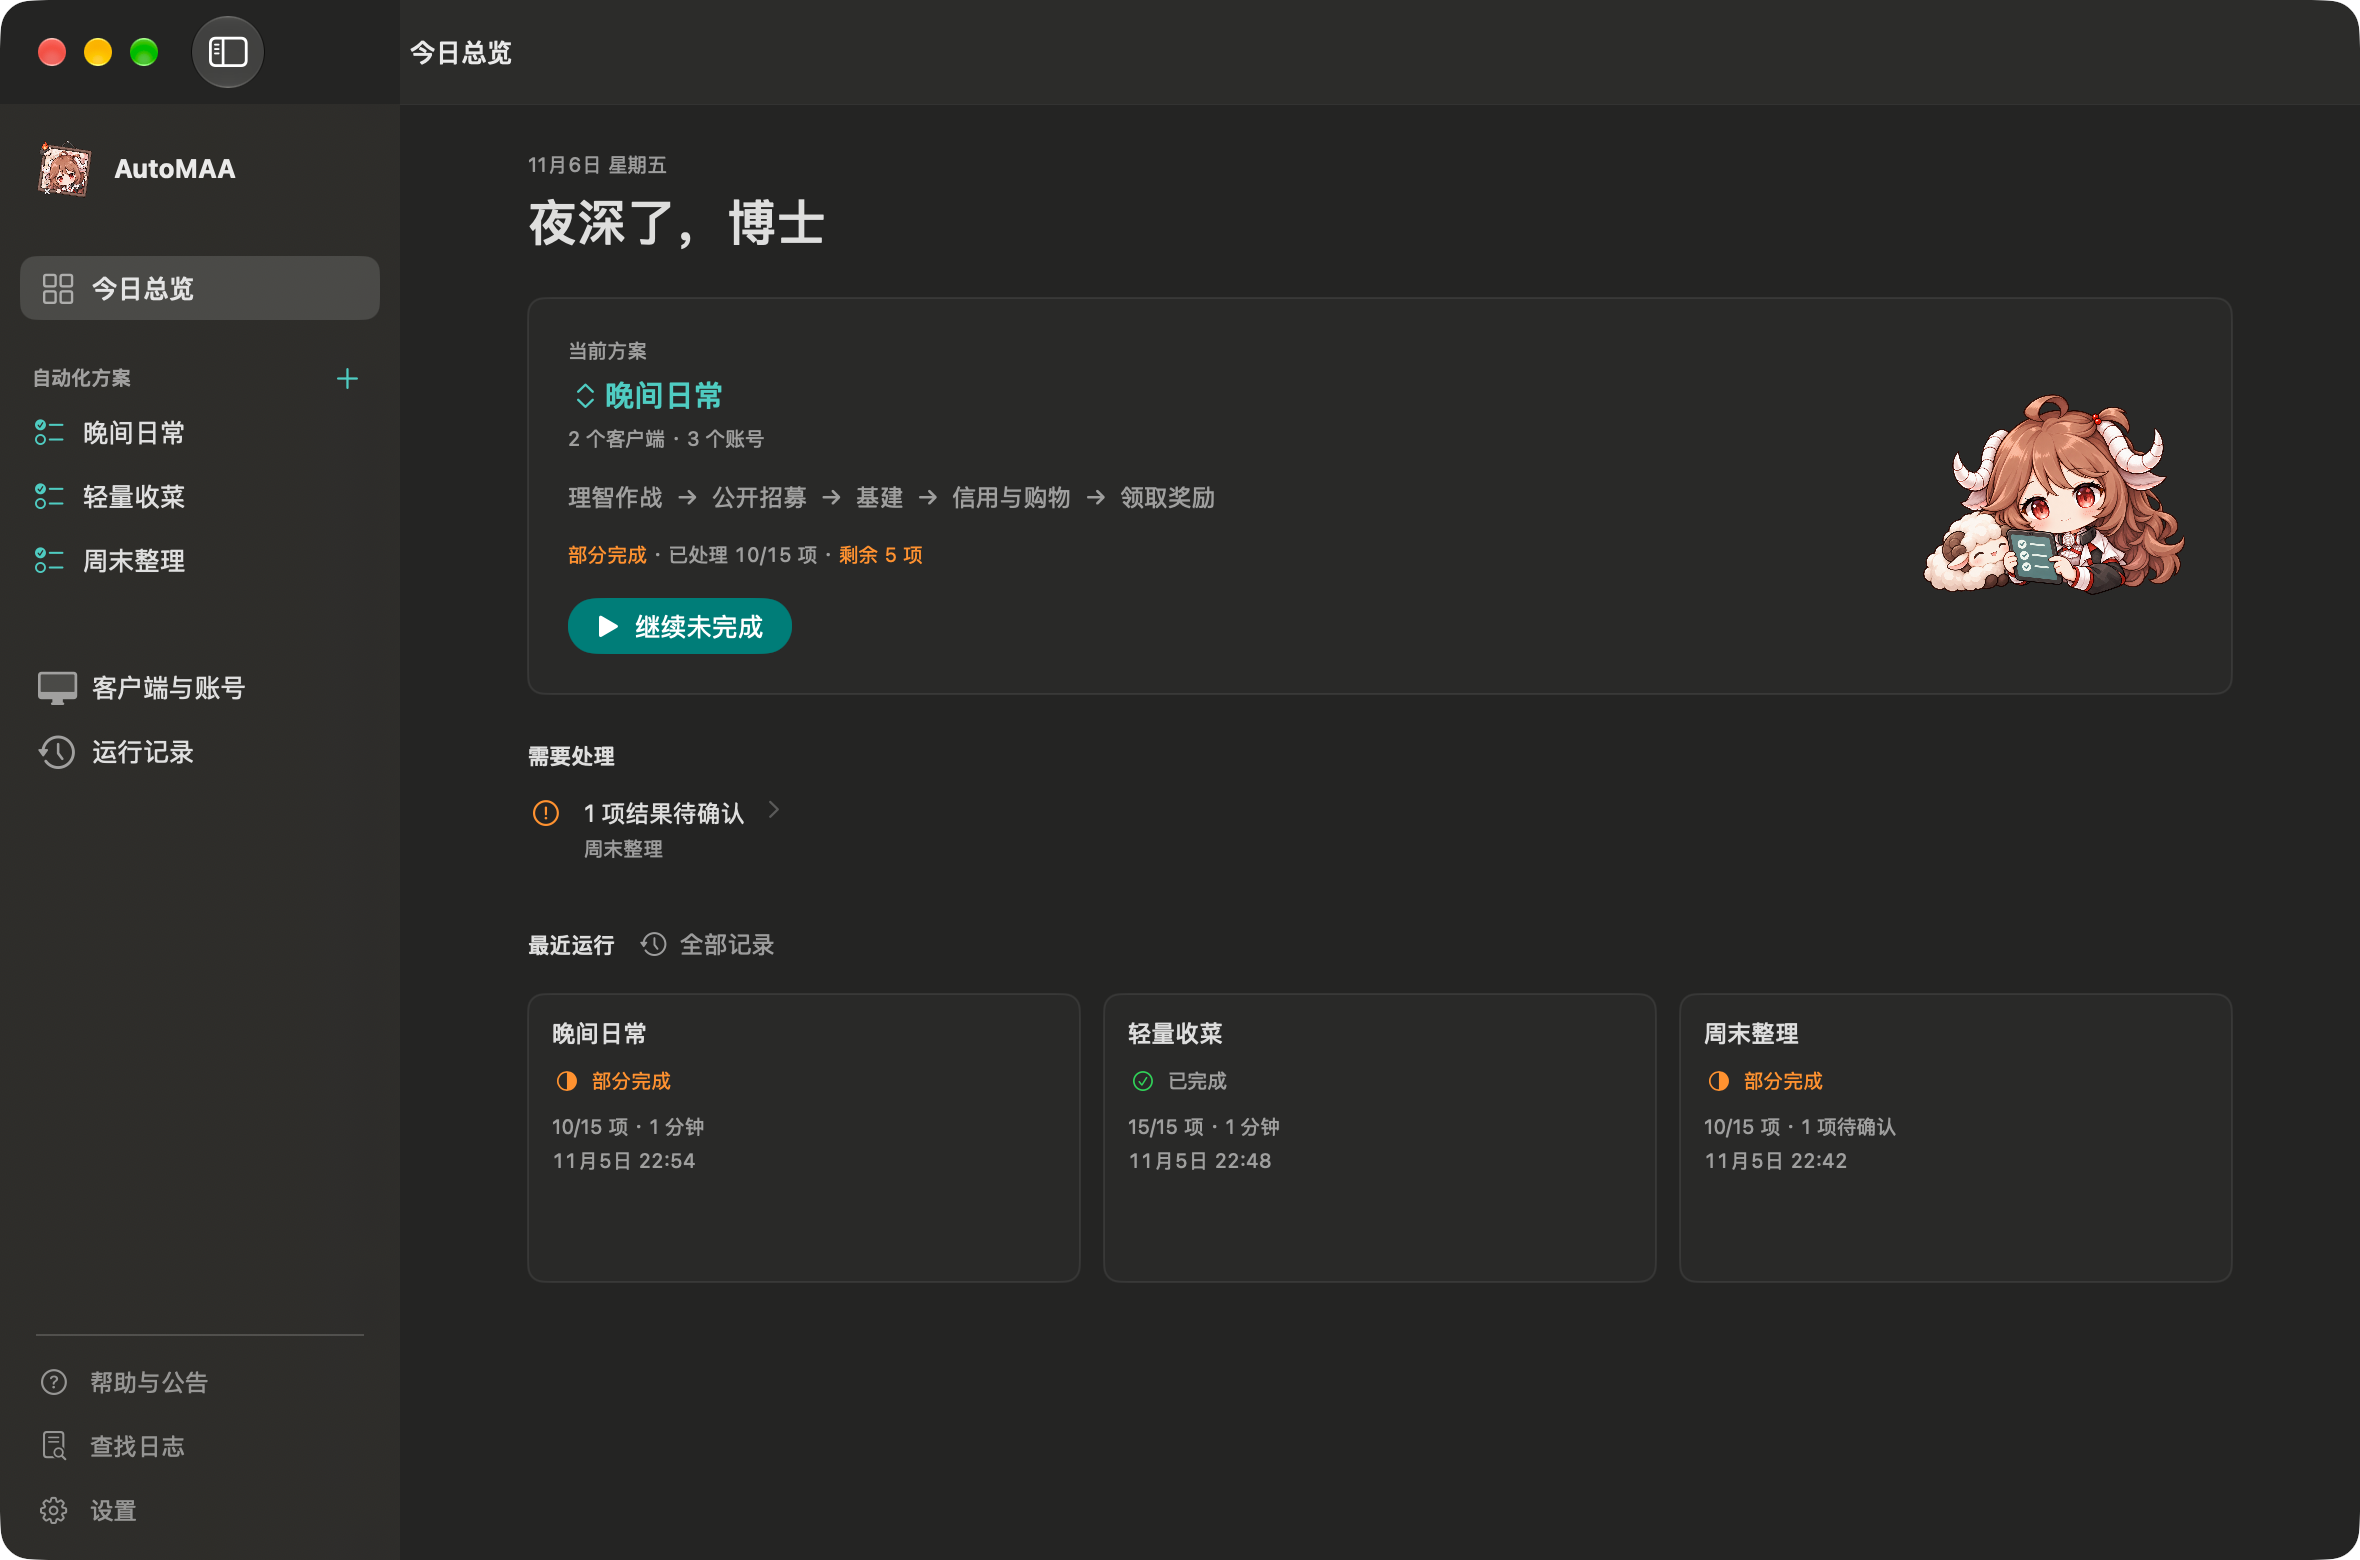
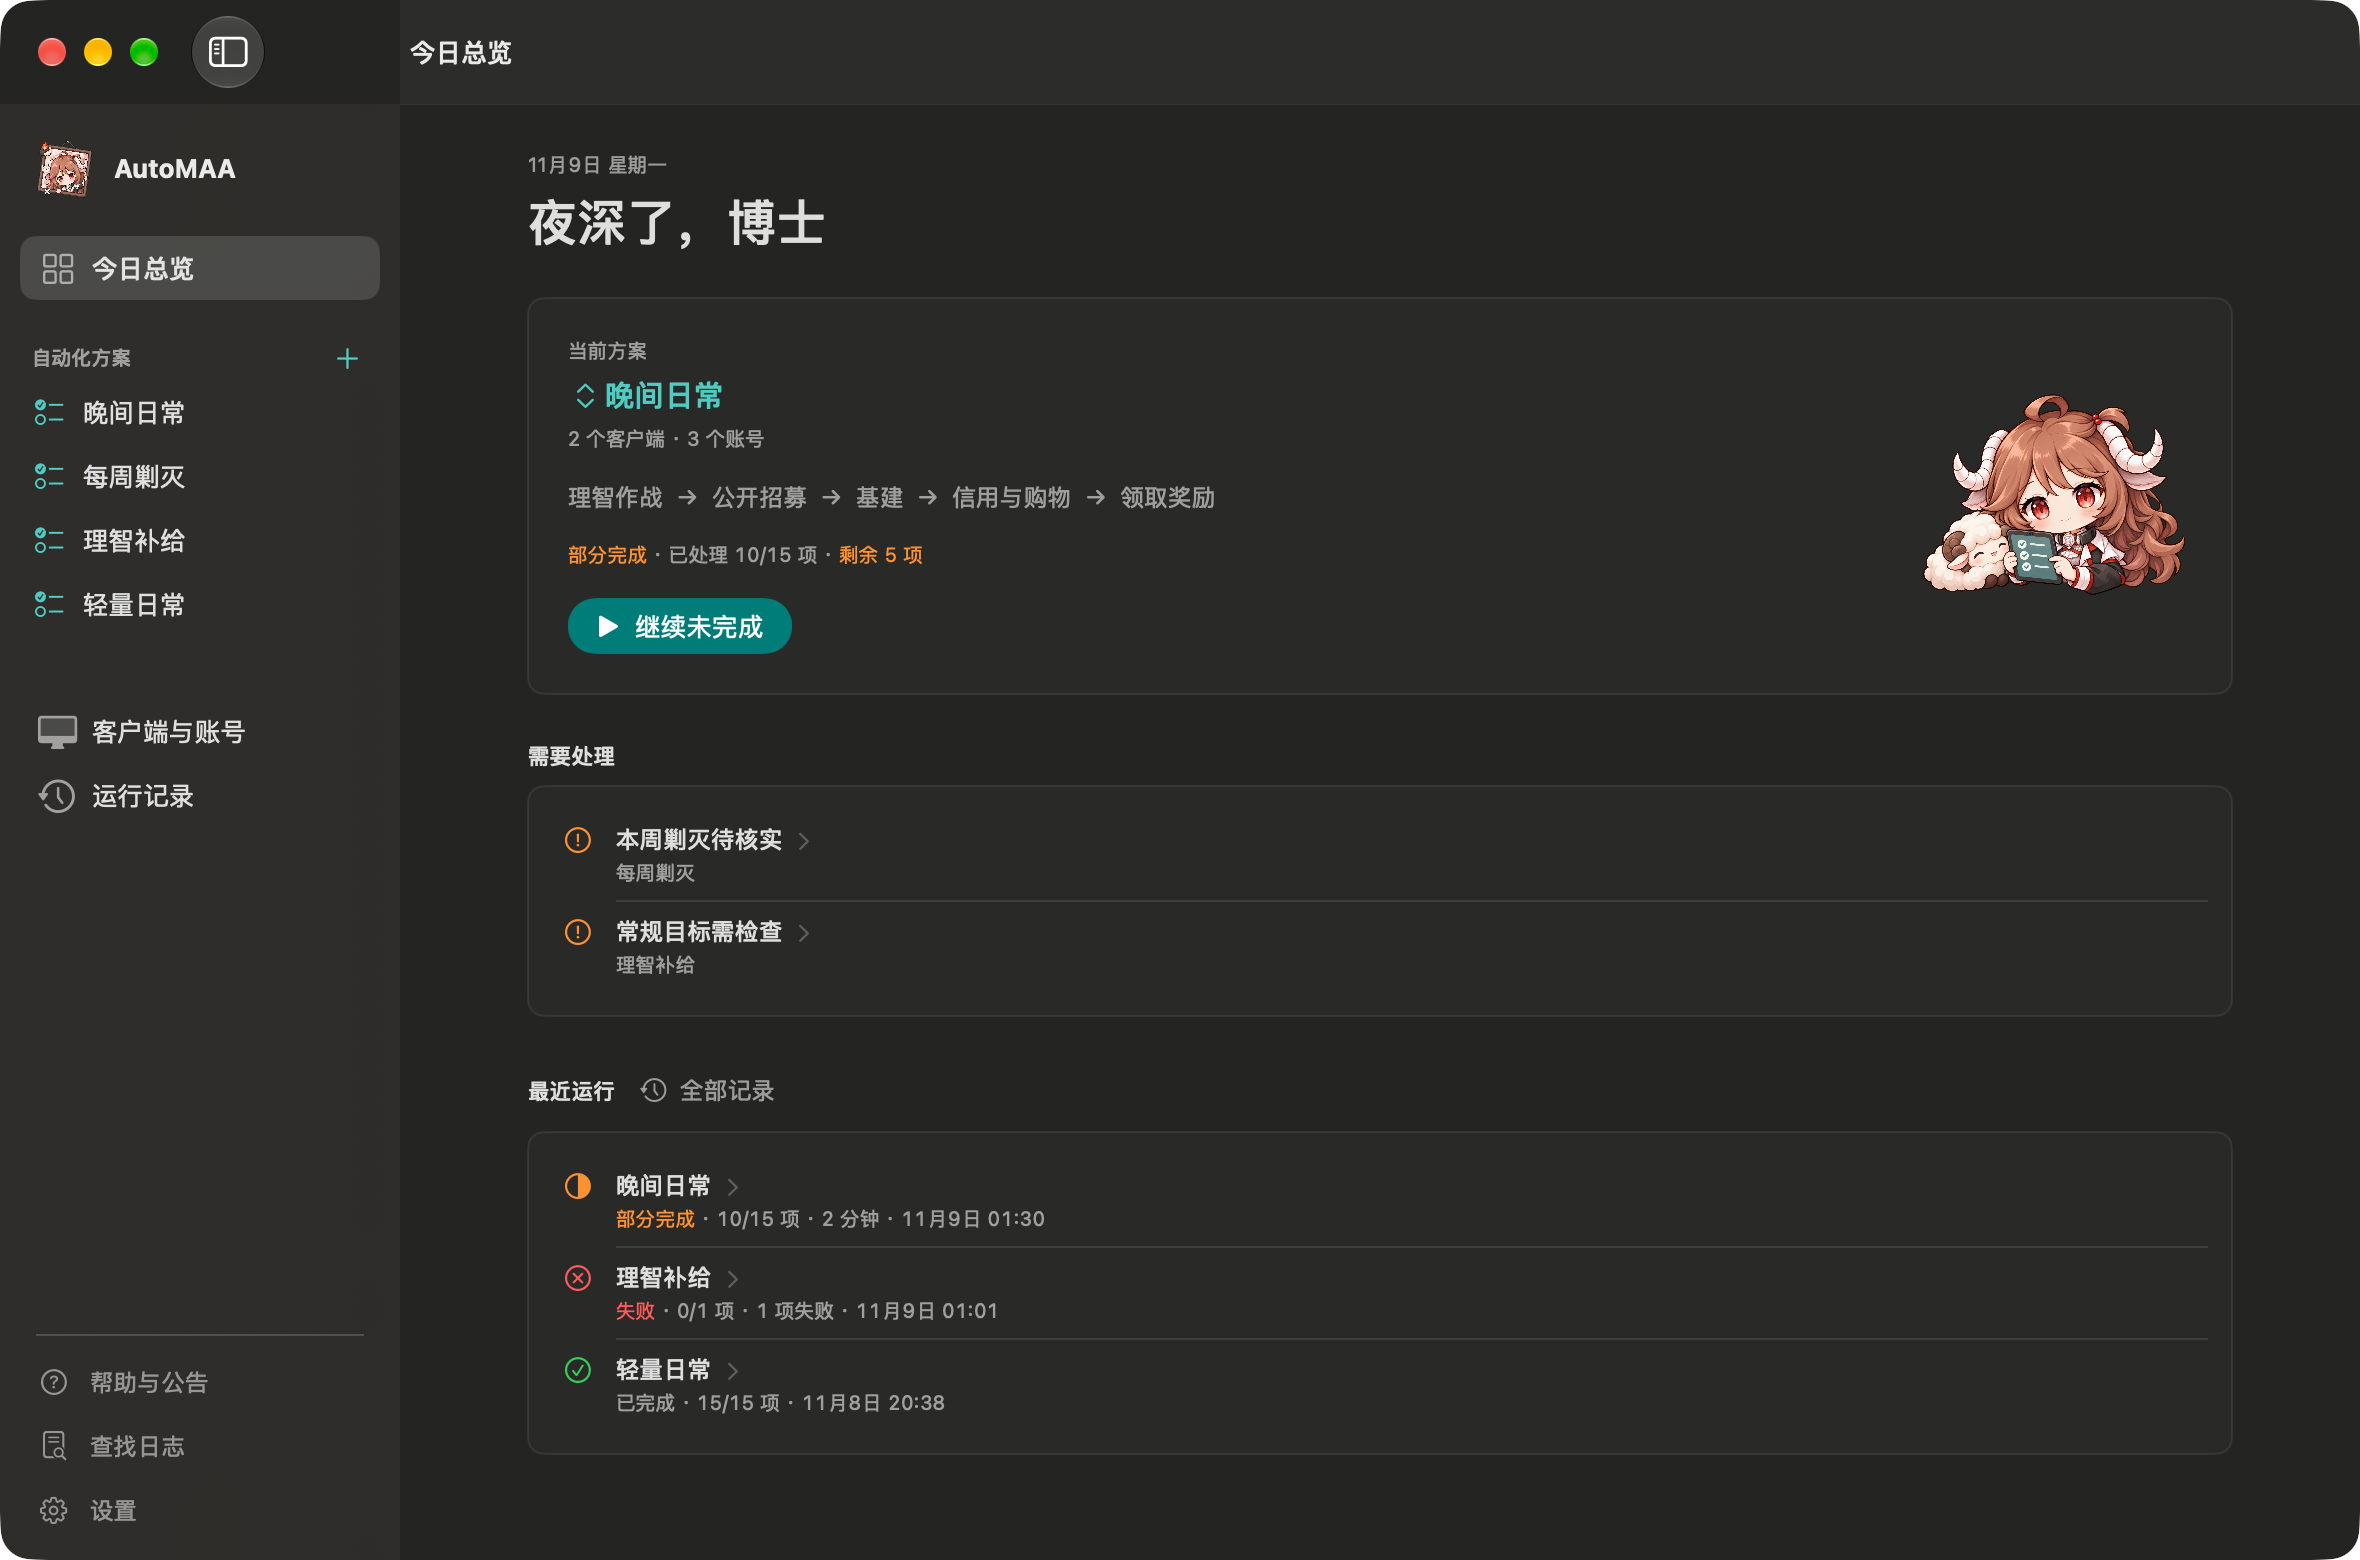
release: v0.16.2

diff --git a/docs/guide/getting-started.md b/docs/guide/getting-started.md
@@ -2,23 +2,22 @@
 
 先配置一个客户端、一个账号和一个方案，跑通后再扩展账号与定时。可以在尚未安装 MAA 时填写配置；运行前完成[MAA 运行环境安装](./installation)、游戏登录和数据下载。
 
-::: info 文档版本
-:::
-
 ## 认识主窗口
 
 左侧切换今日总览、自动化方案、客户端与账号、运行记录。选择方案后，中间调整任务顺序，右侧编辑所选任务；右侧顶栏切换“任务设置”与“运行概况”，中列日历图标打开执行安排，详情列左侧播放按钮运行方案。图标悬停时显示操作名称。
 
 任务列表顶部的“执行 N 个账号”表示方案范围，“未设定时”表示尚未开启定时。当前运行状态集中显示在侧栏底部、帮助与公告上方；方案页的停止和播放在顶栏固定成组显示，只改变可用性，不替换图标或文字；客户端与历史记录空闲时不显示运行按钮，后台操作期间提供独立停止入口。工具栏的侧栏按钮或 `Control-Command-S` 可收起、展开导航；方案增多时列表和总览可滚动。
 
-任务行右侧显示本任务反馈：转圈表示正在执行，绿勾表示全部目标账号均已成功，红叉表示失败，灰色斜线表示取消，橙色提醒表示有结果待处理。名称和参数摘要保持不变，具体原因可在运行概况中查看。
+任务行右侧会在运行过程中更新。转圈表示正在执行，绿勾表示全部目标账号均已完成该项，红叉表示失败，灰色斜线表示取消，橙色提醒表示有结果待处理。具体原因可在运行概况中查看。
 
-今日总览以当前方案为主，点击方案名切换当前方案；参数与执行安排从左侧对应方案进入。主区显示账号范围、任务顺序和唯一运行入口，今日摘要说明已处理、剩余与待核实数量。运行期间显示实际操作名称和最新消息，总体阶段与进度集中在侧栏底部。“需要处理”集中展示待确认结果、作战恢复、配置错误和定时异常，点击进入对应处理页面；“接下来的定时”只展示已同步生效的安排；没有待处理事项或已生效定时时，相应分区会收起。“最近运行”以卡片保留最近三次方案结果，状态、摘要与时间集中在卡片内，点击可查看详情；未记录结束的运行会显示状态未确认。
+今日总览以当前方案为主。点击方案名可切换方案，参数与执行安排从左侧对应方案进入。主区显示账号范围、任务顺序、运行入口和进度摘要。运行期间显示实际操作名称和最新消息，总体阶段与进度集中在侧栏底部。
+
+“需要处理”和“最近运行”采用同样的分组布局。前者列出待确认结果、作战恢复、配置错误和定时异常，后者保留最近三次方案结果。点击整行即可查看对应详情。“接下来的定时”展示已同步生效的安排，存在待办或已生效定时时才显示对应分区。
 
 <figure class="guide-screenshot">
   <img class="theme-shot theme-shot-light" src="../assets/screenshots/overview-light.webp" width="2360" height="1560" loading="lazy" decoding="async" alt="今日总览：当前方案、任务顺序、待处理事项与最近运行" />
   <img class="theme-shot theme-shot-dark" src="../assets/screenshots/overview-dark.webp" width="2360" height="1560" loading="lazy" decoding="async" alt="今日总览：当前方案、任务顺序、待处理事项与最近运行" />
-  <figcaption>AutoMAA v0.16.1 今日总览。确认当前方案与待处理事项，从结果卡片回看最近运行。</figcaption>
+  <figcaption>AutoMAA v0.16.2 今日总览。查看当前方案与待处理事项，点击条目回看运行结果。</figcaption>
 </figure>
 
 ## 检测 MAA 环境

diff --git a/CHANGELOG.md b/CHANGELOG.md
@@ -4,6 +4,22 @@
 
 ## 未发布
 
+## 0.16.2 - 2026-11-09
+
+### 修复
+
+- 日常续跑按各服游戏日计算。电脑过零点后仍可继续尚未刷新的账号，已确认完成的步骤会跳过，未核实的作战保留到用户处理。
+- 方案运行期间逐项更新任务状态。执行中显示转圈，全部目标账号完成该项即显示绿勾，已确认失败显示红叉。
+
+### 界面
+
+- 运行结果与完整日志共用“查看待办”入口，按账号集中显示剩余任务、剿灭核实和常规目标设置。
+- 首页的“需要处理”与“最近运行”采用同样的分组布局。状态、摘要和时间贴近方案名称，点击整行即可进入详情。
+
+### 兼容性
+
+- 沿用 schema v7，现有客户端、账号、方案、定时与运行记录可继续使用。maa-cli 最低版本仍为 0.7.3。
+
 ## 0.16.1 - 2026-11-06
 
 ### 界面

diff --git a/docs/reference/configuration.md b/docs/reference/configuration.md
@@ -34,7 +34,7 @@
 | 文件或目录 | 内容 |
 | --- | --- |
 | `config.json` | 客户端、账号、方案和设置 |
-| `execution-state.json` | 各方案当天的成功断点、作战结果与剿灭／常规分阶段进度 |
+| `execution-state.json` | 各方案按服务器游戏日保存的成功断点、作战结果与剿灭／常规分阶段进度 |
 | `fight-stage-memory.json` | 每个账号记录的常规关卡与恢复状态 |
 | `weekly-annihilation.json` | 按客户端、账号、服务器与游戏周保存的剿灭状态；参与方案共享，独立于每日断点 |
 | `history.json` | 运行记录，包括运行结果与 MAA 更新详情 |

diff --git a/README.md b/README.md
@@ -14,7 +14,7 @@
 
 <img src="./docs/assets/screenshots/overview-light.webp" width="940" alt="AutoMAA 今日总览，集中查看当前方案、待处理事项和最近三次运行结果">
 
-<sub>AutoMAA v0.16.1 今日总览</sub>
+<sub>AutoMAA v0.16.2 今日总览</sub>
 
 </div>
 
